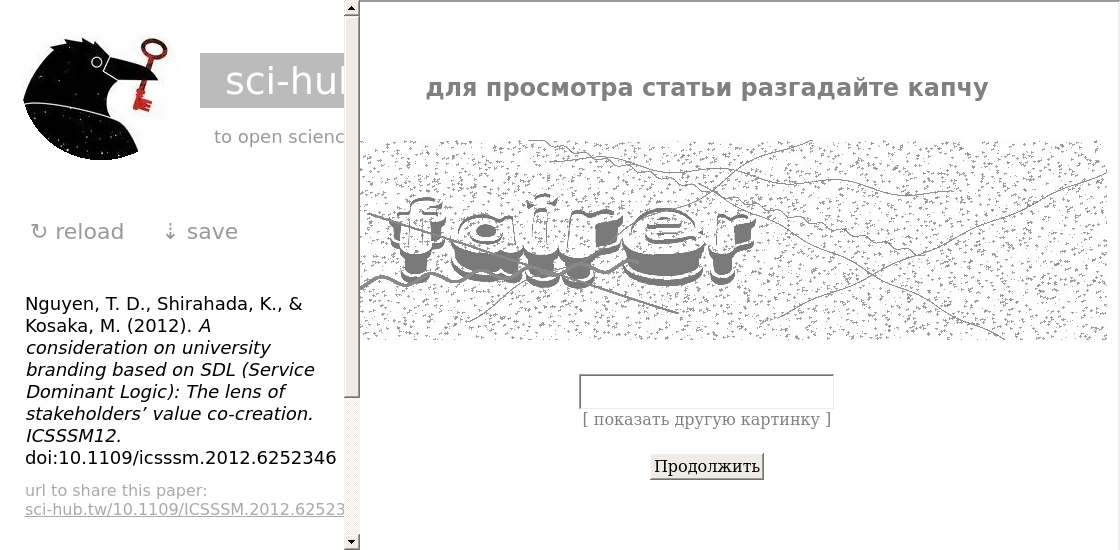
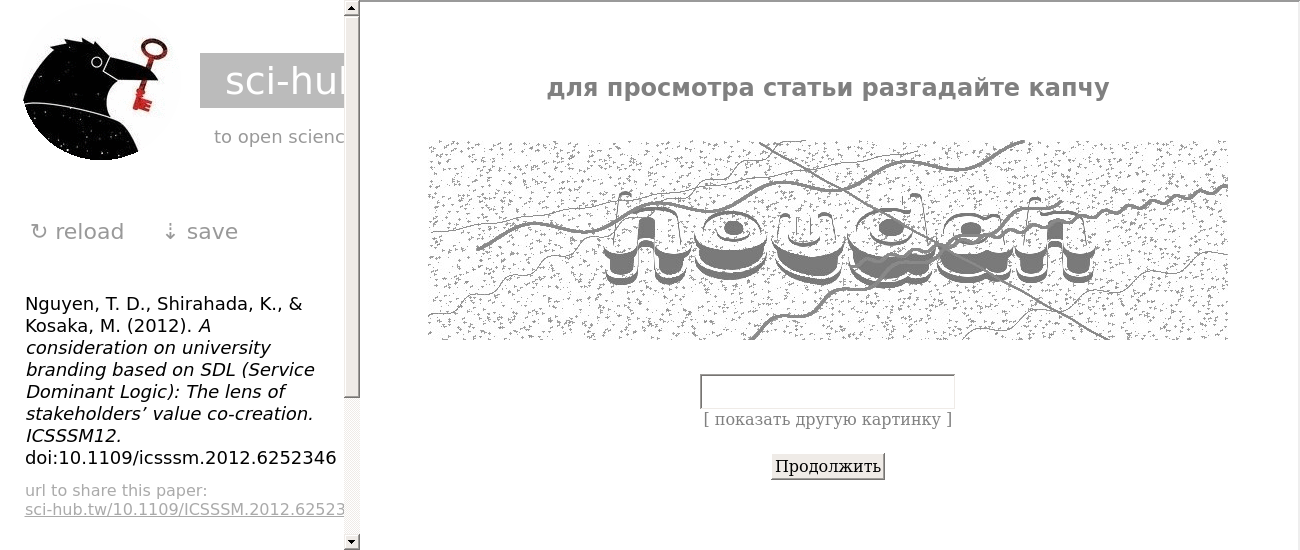
wer

diff --git a/app/scihub.py b/app/scihub.py
@@ -18,10 +18,10 @@ import bibtexparser
 from bs4 import BeautifulSoup
 from retrying import retry
 from capcha import Capcha
+
 from tkinter import *
 from PIL import Image, ImageTk
 from form import Window
-
 
 # log config
 logging.basicConfig()
@@ -59,7 +59,6 @@ class SciHub(object):
         found, r = self.capcha.navigate_to(doi, png_file)
         has_captcha, has_iframe = self.capcha.check_captcha()
 
-
     def download_from_doi(self, doi, location="../imagens/", use_libgen=False):
         pdf_name = "{}".format(doi.replace("/", "_"))
         png_file = location + pdf_name
@@ -77,7 +76,6 @@ class SciHub(object):
                 "https": proxy, }
 
     def _change_base_url(self):
-        # del self.available_base_url_list[0]
         self.base_url = 'http://' + self.available_base_url_list[0] + '/'
         logger.debug("---> Alterando source {}".format(self.available_base_url_list[0]))
 
@@ -105,14 +103,25 @@ class SciHub(object):
             res = self.sess.get(url, verify=False)
 
             if res.headers['Content-Type'] != 'application/pdf':
+               
                 self.download_from_doi(identifier)
-
                 root = Tk()
-                root.geometry("1125x550")
+                root.geometry("1300x400")
                 app = Window(root)
-                root.mainloop()
+
+                LOOP_ACTIVE = True
+                while LOOP_ACTIVE:
+                    root.update()
+                    USER_INPUT = input("Informe o valor do captcha: ")
+                    if USER_INPUT != "":
+                        root.quit()
+                        LOOP_ACTIVE = False
+                    else:
+                        LABEL = Label(root, text=USER_INPUT)
+                        LABEL.pack()
 
                 return {'err': '---[erro] Falha: %s (url) identificou uso de captcha' % (identifier)}
+
             else:
                 return {
                     'pdf': res.content,

diff --git a/app/form.py b/app/form.py
@@ -2,34 +2,33 @@ from __future__ import unicode_literals, absolute_import
 from tkinter import *
 from PIL import Image, ImageTk
 
+
 class Window(Frame):
 
     def __init__(self, master=None):
         Frame.__init__(self, master)
         self.master = master
         self.init_window()
-
+        
     def init_window(self):
         self.master.title("Identificador de Captcha")
         self.pack(fill=BOTH, expand=2)
+        self.showTitulo("iden")
         self.showImg("../imagens/10.1109_ICSSSM.2012.6252346.png")
-        self.showText("iden")
 
     def showImg(self, path):
         load = Image.open(path)
-        render = ImageTk.PhotoImage(load)
-        img = Label(self, image=render)
-        img.image = render
-        img.place(x=0, y=0)
+        render = ImageTk.PhotoImage(load, master=self.master)
+        self.img = Label(self, image=render)
+        self.img.image = render
+        self.img.place(x=0, y=0)
+        self.img.pack()
 
-    def showText(self, title):
-        text = Label(self, text=title, font=("Helvetica", 16), height=(2))
-        text.pack()
+    def showTitulo(self, title):
+        lblTitulo = Label(self, text=title, font=("Helvetica", 16), height=(1))        
+        lblTitulo.pack()
 
-    def client_exit(self):
-        exit()
-
-root = Tk()
-root.geometry("1125x550")
-app = Window(root)
-root.mainloop()
+# root = Tk()
+# root.geometry("1125x700")
+# app = Window(root)
+# root.mainloop()

diff --git a/app/capcha.py b/app/capcha.py
@@ -84,7 +84,7 @@ class Capcha(object):
         found = r.status_code == 200
         if found:
             self.driver.get(self.sci_url)
-            self.driver.set_window_size(1120, 550)
+            self.driver.set_window_size(1300, 550)
         else:
             print("\tSomething is wrong with sci-hub,")
             print("\tstatus_code: ", r.status_code)
